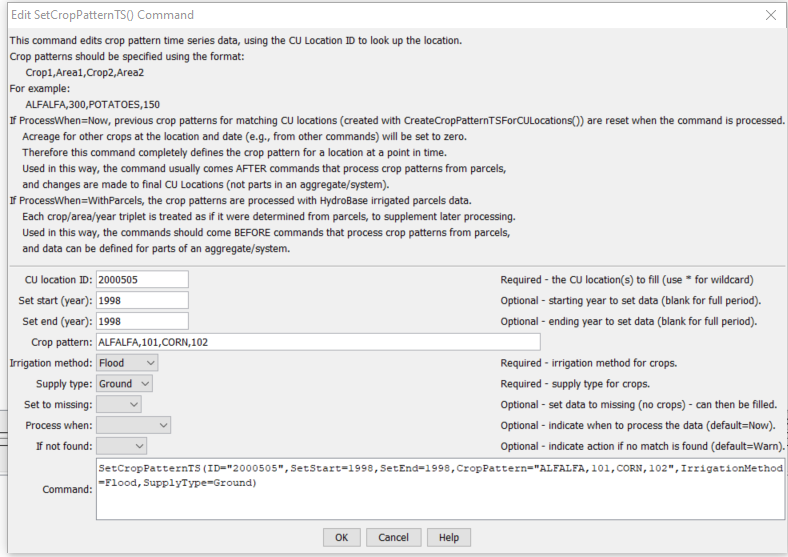
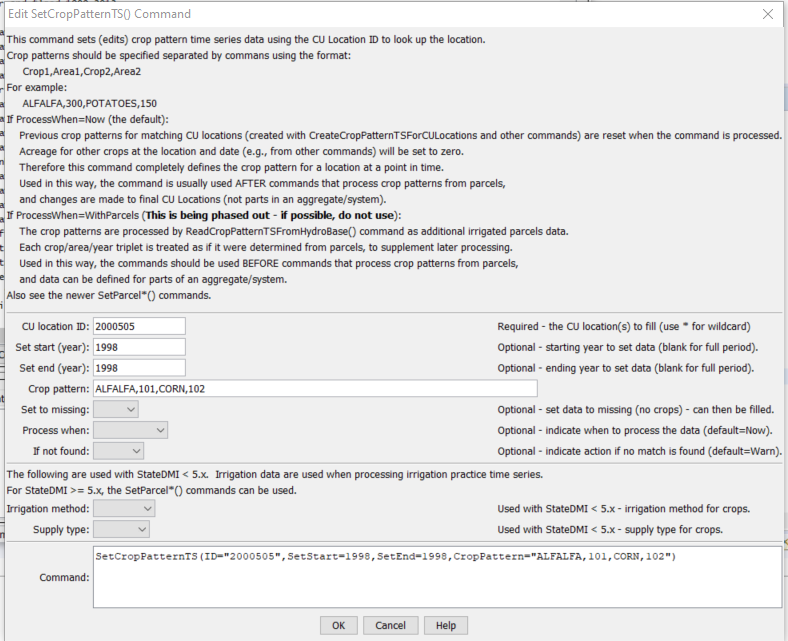
Update documentation based on automated test review, issue #37
Clarify documentation related to parcel processing.

Changed region(s): [[0.0, 0.0, 1.0, 1.0]]

diff --git a/mkdocs-project/docs/command-ref/SetCropPatternTS/SetCropPatternTS.md b/mkdocs-project/docs/command-ref/SetCropPatternTS/SetCropPatternTS.md
@@ -2,6 +2,8 @@
 
 * [Overview](#overview)
 * [Command Editor](#command-editor)
+	+ [Use Case 1: Specify crop data to override (or supply) crop pattern data for a structure](#use-case-1-specify-crop-data-to-override-or-supply-crop-pattern-data-for-a-structure)
+	+ [Use Case 2: Specify crop data for a location, to be processed with parcel data](#use-case-2-specify-crop-data-for-a-location-to-be-processed-with-parcel-data)
 * [Command Syntax](#command-syntax)
 * [Examples](#examples)
 * [Troubleshooting](#troubleshooting)
@@ -16,14 +18,42 @@ sets crop pattern time series data for a CU Location.
 The combination of location ID, crop type, and year identify the data.
 It is recommended that the
 [`SetCropPatternTSFromList`](../SetCropPatternTSFromList/SetCropPatternTSFromList.md)
-command be used instead to shorten commands files and allow sharing of the data with
+command be used if many values are set, which also allows sharing the data file with
 [`SetIrrigationPracticeTSFromList`](../SetIrrigationPracticeTSFromList/SetIrrigationPracticeTSFromList.md) commands.
 
 ## Command Editor ##
 
-There are two uses for this command:
+There have historically been two use cases for this command, as described below.
+As of StateDMI version 5, only the first use is recommended because irrigated area can now be
+processed using parcel data.
 
-### Specify crop data for a location, to be processed with parcel data ###
+### Use Case 1: Specify crop data to override (or supply) crop pattern data for a structure
+
+In this case, the specified data will be visible as the final data values in output
+(and will not be considered when irrigated lands parcels are processed).
+The `ProcessWhen` parameter should be blank or `Now`, which is the default value.
+In this case, the `SetCropPatternTS` commands should be specified after
+[`ReadCropPatternTSFromParcels`](../ReadCropPatternTSFromParcels/ReadCropPatternTSFromParcels.md),
+[`ReadCropPatternTSFromHydroBase`](../ReadCropPatternTSFromHydroBase/ReadCropPatternTSFromHydroBase.md) or other similar commands.
+It is recommended that for StateDMI 5.x and later that parcel data issues
+are corrected using the
+[`SetParcel`](../SetParcel/SetParcel.md) command so that resulting corrected data is used in the processing workflow
+as if the data were read from input sources.
+
+**<p style="text-align: center;">
+![SetCropPatternTS](SetCropPatternTS.png)
+</p>**
+
+**<p style="text-align: center;">
+`SetCropPatternTS` Command Editor (to edit crop pattern time series) (<a href="../SetCropPatternTS.png">see also the full-size image</a>)
+</p>**
+
+### Use Case 2: Specify crop data for a location, to be processed with parcel data ###
+
+**For StateDMI 5.x it is recommended to use the
+[`SetParcel`](../SetParcel/SetParcel.md) command.
+This command was used to set parcel data but setting parcel data directly is more appropriate
+because parcel data are used to create multiple model files.**
 
 For example, an irrigated lands assessment using GIS might show zero acreage
 for a ditch but other information indicates that the ditch irrigates lands.
@@ -45,24 +75,6 @@ The data will be processed as if they were read from HydroBase.
 `SetCropPatternTS` Command Editor (to specify parcel information) (<a href="../SetCropPatternTS_WithParcels.png">see also the full-size image</a>)
 </p>**
 
-### Specify crop data to override (or supply) crop pattern data for a structure
-
-In this case, the specified data will be visible as the final data values in output
-and will not be considered when irrigated lands parcels are processed.
-The `ProcessWhen` parameter should be blank or `Now`.
-In this case, the `SetCropPatternTS` commands should be specified after
-[`ReadCropPatternTSFromHydroBase`](../ReadCropPatternTSFromHydroBase/ReadCropPatternTSFromHydroBase.md) or other similar commands.
-It is recommended that the previous alternative be used,
-in particular when multiple years of data are being processed and need to be quality controlled.
-
-**<p style="text-align: center;">
-![SetCropPatternTS](SetCropPatternTS.png)
-</p>**
-
-**<p style="text-align: center;">
-`SetCropPatternTS` Command Editor (to edit crop pattern time series) (<a href="../SetCropPatternTS.png">see also the full-size image</a>)
-</p>**
-
 ## Command Syntax ##
 
 The command syntax is as follows:
@@ -74,17 +86,17 @@ SetCropPatternTS(Parameter="Value",...)
 Command Parameters
 </p>**
 
-| **Parameter**&nbsp;&nbsp;&nbsp;&nbsp;&nbsp;&nbsp;&nbsp;&nbsp;&nbsp;&nbsp;&nbsp;&nbsp; | **Description** | **Default**&nbsp;&nbsp;&nbsp;&nbsp;&nbsp;&nbsp;&nbsp;&nbsp;&nbsp;&nbsp;&nbsp;&nbsp;&nbsp;&nbsp;&nbsp;&nbsp;&nbsp;&nbsp;&nbsp;&nbsp; |
+| **Parameter**&nbsp;&nbsp;&nbsp;&nbsp;&nbsp;&nbsp;&nbsp;&nbsp;&nbsp;&nbsp;&nbsp;&nbsp;&nbsp;&nbsp;&nbsp;&nbsp; | **Description** | **Default**&nbsp;&nbsp;&nbsp;&nbsp;&nbsp;&nbsp;&nbsp;&nbsp;&nbsp;&nbsp;&nbsp;&nbsp;&nbsp;&nbsp;&nbsp;&nbsp;&nbsp;&nbsp;&nbsp;&nbsp; |
 | --------------|-----------------|----------------- |
 | `ID` | A single CU Location identifier to match or a pattern using wildcards (e.g., `20*`). | None – must be specified. |
 | `SetStart` | The first year to set data values. | If not specified, data are set for the full output period. |
 | `SetEnd` | The last year to set data values. | If not specified, data are set for the full output period. |
 | `CropPattern` | A sequence of crop type and area values, to set as data for the specified period. | None – must be specified. |
-| `SetStart` | Starting year to set data. | Set for the full period. |
-| `SetEnd` | Ending year to set data. | Set for the full period. |
 | `SetToMissing` | Indicate whether the crop pattern for the specified years should be set to missing, instead of supplying data values.  This was used in the Río Grande as follows:  Read 1936, 1998, and 2002 data, resulting in crop pattern time series.  It is necessary to include all years in order to get a complete list of crops over the period, even if zero or missing in some years.  After reading all years, 2002 is set to missing using this command and a standard filling approach is used for the full period.  Then, 2002 is read at the end.  The overall result is that 2002’s crops are listed in the full period but only have non-zero observations in 2002. | `False` |
 | `ProcessWhen` | Indicates when the specified data values should be processed.  If the parameter value is `WithParcels`, then the values will be considered when irrigated lands data are processed with later [`ReadCropPatternTSFromHydroBase`](../ReadCropPatternTSFromHydroBase/ReadCropPatternTSFromHydroBase.md). | `Now`, indicating that the acreage should be set when the command is processed (not when later read commands are processed). |
 | `IfNotFound` | Used for error handling, one of the following:<ul><li>`Fail` – generate a failure message if the ID is not matched</li><li>`Ignore` – ignore (don’t add and don’t generate a message) if the ID is not matched</li><li>`Warn` – generate a warning message if the ID is not matched</li></ul> | `Warn` |
+| `IrrigationMethod` | Used with use case 2 (described above). The irrigation method for specified crops:<ul><li>`Flood` - flood irrigation</li><li>`Sprinkler` - sprinkler irrigation</li></ul> Because the irrigation method is associated with supply, StateDMI 5.x+ [`SetParcel`](../SetParcel/SetParcel.md), [`SetParcelSurfaceWaterSupply`](../SetParcelSurfaceWaterSupply/SetParcelSurfaceWaterSupply.md), and [`SetParcelGroundWaterSupply`](../SetParcelGroundWaterSupply/SetParcelGroundWaterSupply.md) are more appropriate to set supply data. | |
+| `SupplyType` | Used with use case 2 (described above). The supply type for specified crops:<ul><li>`Ground` - groundwater (well) supply</li><li>`Surface` - surface water (ditch) supply</li></ul> Because the irrigation method is associated with supply, StateDMI 5.x+ [`SetParcel`](../SetParcel/SetParcel.md), [`SetParcelSurfaceWaterSupply`](../SetParcelSurfaceWaterSupply/SetParcelSurfaceWaterSupply.md), and [`SetParcelGroundWaterSupply`](../SetParcelGroundWaterSupply/SetParcelGroundWaterSupply.md) are more appropriate to set supply data. | |
 
 ## Examples ##
 
@@ -100,3 +112,6 @@ See the [automated tests](https://github.com/OpenCDSS/cdss-app-statedmi-test/tre
 * [`FillCropPatternTSUsingWellRights`](../FillCropPatternTSUsingWellRights/FillCropPatternTSUsingWellRights.md) command
 * [`ReadCropPatternTSFromHydroBase`](../ReadCropPatternTSFromHydroBase/ReadCropPatternTSFromHydroBase.md) command
 * [`SetCropPatternTSFromList`](../SetCropPatternTSFromList/SetCropPatternTSFromList.md) command
+* [`SetParcel`](../SetParcel/SetParcel.md) command
+* [`SetParcelGroundWaterSupply`](../SetParcelGroundWaterSupply/SetParcelGroundWaterSupply.md) command
+* [`SetParcelSurfaceWaterSupply`](../SetParcelSurfaceWaterSupply/SetParcelSurfaceWaterSupply.md) command

diff --git a/mkdocs-project/docs/command-ref/CompareIrrigationPracticeTSFiles/CompareIrrigationPracticeTSFiles.md b/mkdocs-project/docs/command-ref/CompareIrrigationPracticeTSFiles/CompareIrrigationPracticeTSFiles.md
@@ -1,4 +1,4 @@
-# StateDMI / Command / CompareCropPatternTSFiles #
+# StateDMI / Command / CompareIrrigationPracticeTSFiles #
 
 * [Overview](#overview)
 * [Command Editor](#command-editor)
@@ -11,8 +11,8 @@
 
 ## Overview ##
 
-The `CompareCropPatternTSFiles` command (for StateCU)
-compares two StateCU crop pattern time series files (`*.cds`) to determine data differences.
+The `CompareIrrigationPracticeTSFiles` command (for StateCU)
+compares two StateCU irrigation practice time series files (`*.ipy`) to determine data differences.
 Time series values are formatted as strings using the precision and are checked for differences.
 The list of objects from the first file is used as the "master".
 Currently, CU Locations and crops at a location that are found in the second file
@@ -25,11 +25,11 @@ Output is printed to the log file.
 The following dialog is used to edit the command and illustrates the command syntax.
 
 **<p style="text-align: center;">
-![CompareCropPatternTSFiles](CompareCropPatternTSFiles.png)
+![CompareIrrigationPracticeTSFiles](CompareIrrigationPracticeTSFiles.png)
 </p>**
 
 **<p style="text-align: center;">
-`CompareCropPatternTSFiles` Command Editor (<a href="../CompareCropPatternTSFiles.png">see also the full-size image</a>)
+`CompareIrrigationPracticeTSFiles` Command Editor (<a href="../CompareIrrigationPracticeTSFiles.png">see also the full-size image</a>)
 </p>**
 
 ## Command Syntax ##
@@ -37,7 +37,7 @@ The following dialog is used to edit the command and illustrates the command syn
 The command syntax is as follows:
 
 ```text
-CompareCropPatternTSFiles(Parameter="Value",...)
+CompareIrrigationPracticeTSFiles(Parameter="Value",...)
 ```
 **<p style="text-align: center;">
 Command Parameters
@@ -47,15 +47,15 @@ Command Parameters
 | --------------|-----------------|----------------- |
 | `InputFile1`<br>**required** | The name of the first file to read. | None – must be specified. |
 | `InputFile2`<br>**required** | The name of the second file to read. | None – must be specified. |
-| `Precision` | The number of digits after the decimal point to compare for crop area values. Higher precision will result in more differences. | `3` |
+| `Precision` | The number of digits after the decimal point to compare for crop area values. Higher precision will result in more differences. The precision for efficiency values always defaults to `2`. | `3` |
 
 ## Examples ##
 
-See the [automated tests](https://github.com/OpenCDSS/cdss-app-statedmi-test/tree/master/test/regression/commands/CompareCropPatternTSFiles).
+See the [automated tests](https://github.com/OpenCDSS/cdss-app-statedmi-test/tree/master/test/regression/commands/CompareIrrigationPracticeTSFiles).
 
 ## Troubleshooting ##
 
 ## See Also ##
 
+* [`CompareCropPatternTSFiles`](../CompareCropPatternTSFiles/CompareCropPatternTSFiles.md) command
 * [`CompareFiles`](../CompareFiles/CompareFiles.md) command
-* [`CompareIrrigationPracticeTSFiles`](../CompareIrrigationPracticeTSFiles/CompareIrrigationPracticeTSFiles.md) command

diff --git a/mkdocs-project/docs/appendix-release-notes/release-notes-05.md b/mkdocs-project/docs/appendix-release-notes/release-notes-05.md
@@ -10,6 +10,7 @@
 
 ## Changes in Version 5.00.06 ##
 
+* ![change](change.png) [5.00.06] Multiple minor changes to ensure that automated tests run without warnings.
 * ![change](change.png) [5.00.06] Update the 
 [***Quality Control***](../quality-control/quality-control.md) chapter to reflect recent enhancements
 related to testing.
@@ -27,7 +28,15 @@ and testing framework to handle requirements evaluation
 [`RunCommands`](../command-ref/RunCommands/RunCommands.md) command to
 check `#@require` comments so that automated tests for incompatible
 configurations can be skipped to avoid false test failures.
+* ![change](change.png) [5.00.06] Update the 
+[`SetCropPatternTS`](../command-ref/SetCropPatternTS/SetCropPatternTS.md) command editor
+to more clearly indicate which parameters are used with different StateDMI versions.
+Also change so that `IrrigationMethod` and `SupplyType` are optional so that the
+command can be used with old or new StateDMI command files.
 * ![new](new.png) [5.00.06] Add [datastore documentation](../datastore-ref/overview.md) similar to TSTool.
+* ![new](new.png) [5.00.05] Add 
+[`CompareIrrigationPracticeTSFiles`](../command-ref/CompareIrrigationPracticeTSFiles/CompareIrrigationPracticeTSFiles.md) command to
+streamline comparisons of different versions of files.
 
 ## Changes in Version 5.00.05 ##
 
@@ -37,7 +46,7 @@ has been fixed to fill missing data with zeros for years with irrigated lands da
 determined from the parcels for all locations.
 * ![new](new.png) [5.00.05] Add 
 [`CompareCropPatternTSFiles`](../command-ref/CompareCropPatternTSFiles/CompareCropPatternTSFiles.md) command to
-streamline comparisons of different versions of files
+streamline comparisons of different versions of files.
 
 ## Changes in Version 5.00.04 ##
 

diff --git a/mkdocs-project/docs/command-ref/ReadIrrigationPracticeTSFromHydroBase/ReadIrrigationPracticeTSFromHydroBase.md b/mkdocs-project/docs/command-ref/ReadIrrigationPracticeTSFromHydroBase/ReadIrrigationPracticeTSFromHydroBase.md
@@ -12,7 +12,10 @@
 ## Overview ##
 
 **This command is being phased out as of StateDMI 5.x.  Instead, use the
-[`ReadIrrigationPracticeTSFromParcels`](../ReadIrrigationPracticeTSFromParcels/ReadIrrigationPracticeTSFromParcels.md) command.**
+[`ReadParcelsFromHydroBase`](../ReadParcelsFromHydroBase/ReadParcelsFromHydroBase.md) and
+[`ReadIrrigationPracticeTSFromParcels`](../ReadIrrigationPracticeTSFromParcels/ReadIrrigationPracticeTSFromParcels.md) commands.**
+This command can still be used, in particular for datasets without wells.
+However, the new parcel-processing commands are faster, more flexible, and more transparent.
 
 The `ReadIrrigationPracticeTSFromHydroBase` command (for StateCU) reads parcel acreage data from HydroBase
 and sets the irrigation practice acreage time series (yearly) information for CU locations.
@@ -313,4 +316,5 @@ WriteIrrigationPracticeTSToStateCU(OutputFile="..\StateMod\Historic\Sp2008L.ipy"
 * [`ReadIrrigationPracticeTSFromList`](../ReadIrrigationPracticeTSFromList/ReadIrrigationPracticeTSFromList.md) command
 * [`ReadIrrigationPracticeTSFromParcels`](../ReadIrrigationPracticeTSFromParcels/ReadIrrigationPracticeTSFromParcels.md) command
 * [`ReadIrrigationPracticeTSFromStateCU`](../ReadIrrigationPracticeTSFromStateCU/ReadIrrigationPracticeTSFromStateCU.md) command
+* [`ReadParcelsFromHydroBase`](../ReadParcelsFromHydroBase/ReadParcelsFromHydroBase.md) command
 * [`WriteIrrigationPracticeTSToStateCU`](../WriteIrrigationPracticeTSToStateCU/WriteIrrigationPracticeTSToStateCU.md) command

diff --git a/mkdocs-project/docs/command-ref/SetOutputPeriod/SetOutputPeriod.md b/mkdocs-project/docs/command-ref/SetOutputPeriod/SetOutputPeriod.md
@@ -11,10 +11,16 @@
 
 ## Overview ##
 
-The `SetOutputPeriod` does something...
+The `SetOutputPeriod` command (for StateCU and StateMod)
 sets the output period for time series.
 Specifying the output period is necessary when creating model files or filling
 an extended period (time series will not automatically be extended by fill commands).
+
+The TSTool software uses `SetInputPeriod` command to constrain the data that are read,
+and can be used with different dates for `SetOutpuPeriod`.
+However, StateDMI generally uses the period from `SetOutputPeriod` for the period to to read data and output results.
+Some commands allow the period to read to be specified.
+
 The following dialog is used to edit this command and illustrates the syntax of the command.
 Note that the output period should always use calendar month and year,
 even if other than calendar year are used for output (see

diff --git a/mkdocs-project/docs/appendix-release-notes/release-notes.md b/mkdocs-project/docs/appendix-release-notes/release-notes.md
@@ -71,7 +71,7 @@ StateDMI Version History Summary (most current at top)
 
 |**StateDMI Version(s)**&nbsp;&nbsp;&nbsp;&nbsp;&nbsp;&nbsp;&nbsp;&nbsp;&nbsp;&nbsp;&nbsp;&nbsp;&nbsp;&nbsp;&nbsp;&nbsp;&nbsp;&nbsp;&nbsp;&nbsp;|**Summary of Major Changes in Version**|**Release Date**|
 |--|--|--|
-|[5.00.00](release-notes-05.md)|Major update including enabling web services, datastores, tables, Excel integration, and enhanced groundwater only well supply.|2019-07-10|
+|[5.00.01 - 5.00.06](release-notes-05.md)|Major update including enabling web services, datastores, tables, Excel integration, and new parcel processing commands. | 2021-01-18 |
 
 ## Known Limitations ##
 

diff --git a/mkdocs-project/docs/command-ref/ReadCropPatternTSFromHydroBase/ReadCropPatternTSFromHydroBase.md b/mkdocs-project/docs/command-ref/ReadCropPatternTSFromHydroBase/ReadCropPatternTSFromHydroBase.md
@@ -15,6 +15,8 @@
 **This command is being phased out as of StateDMI 5.x.  Instead, use the 
 [`ReadParcelsFromHydroBase`](../ReadParcelsFromHydroBase/ReadParcelsFromHydroBase.md) and
 [`ReadCropPatternTSFromParcels`](../ReadCropPatternTSFromParcels/ReadCropPatternTSFromParcels.md) commands.**
+This command can still be used, in particular for datasets without wells.
+However, the new parcel-processing commands are faster, more flexible, and more transparent.
 
 The `ReadCropPatternTSFromHydroBase` command (for StateCU) reads crop pattern
 time series from HydroBase and defines crop pattern time series in memory.

diff --git a/mkdocs-project/docs/command-ref/OpenHydroBase/OpenHydroBase.md b/mkdocs-project/docs/command-ref/OpenHydroBase/OpenHydroBase.md
@@ -11,7 +11,7 @@
 
 ## Overview ##
 
-The `OpenHydroBase` does something command
+The `OpenHydroBase`
 opens a connection to a HydroBase database, allowing data to be read from the database.
 This command is not typically used for interactive sessions but may be inserted to run
 in batch only mode to allow a specific database and commands files to be distributed.

diff --git a/mkdocs-project/docs/command-ref/FillWellStation/FillWellStation.md b/mkdocs-project/docs/command-ref/FillWellStation/FillWellStation.md
@@ -11,8 +11,7 @@
 
 ## Overview ##
 
-The `FillWellStation` does something command (for StateMod)
-fills missing data in existing well stations.
+The `FillWellStation` command (for StateMod) fills missing data in existing well stations.
 
 ## Command Editor ##
 
